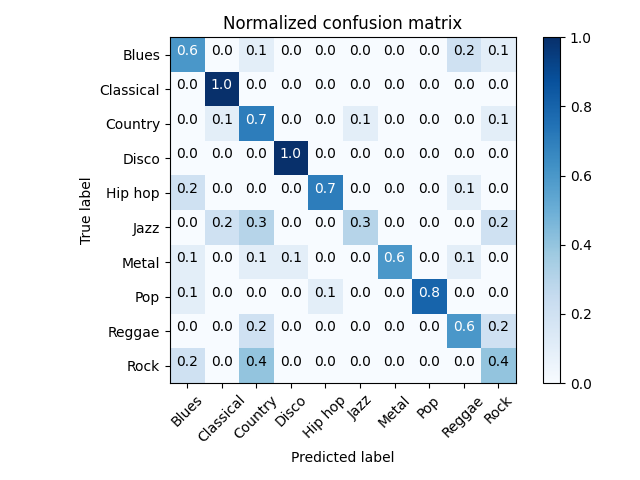
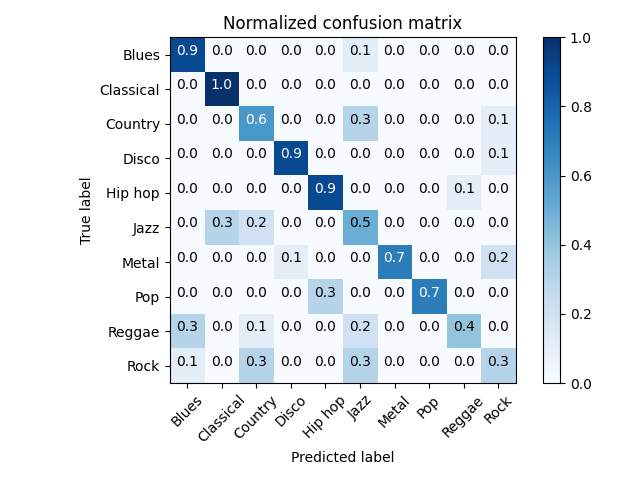
Changes in code

diff --git a/separable_cnn.py b/separable_cnn.py
@@ -14,44 +14,7 @@ import load_data
 import matplotlib
 matplotlib.use("Agg")
 from matplotlib import pyplot as plt
-import itertools
-
-###################################################################################################
-
-
-def plot_confusion_matrix(cm, classes,
-                          normalize=False,
-                          title='Confusion matrix',
-                          cmap=plt.cm.Blues):
-    """
-    This function prints and plots the confusion matrix.
-    Normalization can be applied by setting `normalize=True`.
-    """
-    if normalize:
-        cm = cm.astype('float') / cm.sum(axis=1)[:, np.newaxis]
-        print("Normalized confusion matrix")
-    else:
-        print('Confusion matrix, without normalization')
-
-    print(cm)
-
-    plt.imshow(cm, interpolation='nearest', cmap=cmap)
-    plt.title(title)
-    plt.colorbar()
-    tick_marks = np.arange(len(classes))
-    plt.xticks(tick_marks, classes, rotation=45)
-    plt.yticks(tick_marks, classes)
-
-    fmt = '.1f' if normalize else 'd'
-    thresh = cm.max() / 2.
-    for i, j in itertools.product(range(cm.shape[0]), range(cm.shape[1])):
-        plt.text(j, i, format(cm[i, j], fmt),
-                 horizontalalignment="center",
-                 color="white" if cm[i, j] > thresh else "black")
-
-    plt.ylabel('True label')
-    plt.xlabel('Predicted label')
-    plt.tight_layout()
+from plot_conf_matrix import plot_confusion_matrix
 
 
 # Models to be passed to Music_Genre_CNN
@@ -65,7 +28,7 @@ def metric(y_true, y_pred):
     return K.mean(K.equal(K.argmax(y_true, axis=1), K.argmax(y_pred, axis=1)))
 
 
-def cnn(num_genres=10, input_shape=(64, 173, 1)):
+def dsnn(num_genres=10, input_shape=(64, 173, 1), ):
     model = Sequential()
     model.add(SeparableConv2D(64,
                      kernel_size=(4, 4),
@@ -77,7 +40,7 @@ def cnn(num_genres=10, input_shape=(64, 173, 1)):
                      (3, 5),
                      activation='relu',
                      kernel_regularizer=regularizers.l2(0.04)))
-    model.add(MaxPooling2D(pool_size=(2, 2)))
+    model.add(MaxPooling2D(pool_size=(2, 4)))
     model.add(Dropout(0.2))
     model.add(SeparableConv2D(64,
                      (2, 2),
@@ -90,15 +53,11 @@ def cnn(num_genres=10, input_shape=(64, 173, 1)):
     model.add(Dropout(0.5))
     model.add(Dense(32, activation='relu', kernel_regularizer=regularizers.l2(0.04)))
     model.add(Dense(num_genres, activation='softmax'))
-    model.compile(loss=keras.losses.categorical_crossentropy,
+    model.compile(loss='categorical_crossentropy',
                   optimizer=tf.keras.optimizers.Adam(lr=0.001, beta_1=0.9, beta_2=0.999, epsilon=1e-08, decay=0.0),
                   metrics=[metric])
-    # model.summary()
-    return(model)
-
-###################################################################################################
-
-# Main network thingy to train
+    model.summary()
+    return model
 
 
 class model(object):
@@ -108,14 +67,17 @@ class model(object):
 
     def train_model(self, train_x, train_y,
                 val_x=None, val_y=None,
-                small_batch_size=100, max_iteration=300, print_interval=1,
+                small_batch_size=50,
+                max_iteration=300, print_interval=1,
                 test_x=None, test_y=None):
-
+        val_accuracy = .70
         m = len(train_x)
+        history = self.model.fit(train_x, train_y, batch_size=16,
+                                 validation_data=(test_x, test_y),
+                                 epochs=15)
 
         for it in range(max_iteration):
 
-            # split training data into even batches
             batch_idx = np.random.permutation(m)
             train_x = train_x[batch_idx]
             train_y = train_y[batch_idx]
@@ -126,7 +88,7 @@ class model(object):
 
                 x_batch = train_x[batch*small_batch_size: (batch+1)*small_batch_size]
                 y_batch = train_y[batch*small_batch_size: (batch+1)*small_batch_size]
-                # print("Starting batch\t", batch, "\t Epoch:\t", it)
+                print("Batch\t", batch, "\t Epoch:\t", it)
                 self.model.train_on_batch(x_batch, y_batch)
 
             if it % print_interval == 0:
@@ -137,8 +99,26 @@ class model(object):
                       (training_accuracy[1], validation_accuracy[1], testing_accuracy[1]))
                 print("\nTraining loss: %f    \t Validation loss: %f    \t Testing Loss: %f \n" %
                       (training_accuracy[0], validation_accuracy[0], testing_accuracy[0]))
+                if it == 15:
+                    train_loss = history.history['loss']
+                    test_loss = history.history['val_loss']
 
-            if (validation_accuracy[1] > .70):
+                    plt.figure(figsize=(12, 8))
+
+                    plt.plot(train_loss, label='Training Loss', color='blue')
+                    plt.plot(test_loss, label='Testing Loss', color='red')
+
+                    plt.title('Training and Testing Loss by Epoch', fontsize=25)
+                    plt.xlabel('Epoch', fontsize=18)
+                    plt.ylabel('Categorical Crossentropy', fontsize=18)
+                    plt.xticks(range(1, 16), range(1, 16))
+
+                    plt.legend(fontsize=18)
+                    plt.savefig('ProgressTable')
+
+
+            if (validation_accuracy[1] > val_accuracy):
+                val_accuracy = validation_accuracy[1]
                 print("Saving confusion data...")
                 model_name = "model" + str(100*validation_accuracy[1]) + str(100*testing_accuracy[1]) + ".h5"
                 self.model.save(model_name)
@@ -150,6 +130,7 @@ class model(object):
                 plot_confusion_matrix(cnf_matrix, classes=song_labels, normalize=True, title='Normalized confusion matrix')
                 print(precision_recall_fscore_support(np.argmax(test_y, axis=1), predicted, average='macro'))
                 plt.savefig(str(batch))
+
 
 ###################################################################################################
 
@@ -187,7 +168,7 @@ def main():
     y_te = np_utils.to_categorical(y_te)
     y_cv = np_utils.to_categorical(y_cv)
 
-    ann = model(cnn)
+    ann = model(dsnn)
     ann.train_model(x_tr, y_tr, val_x=x_cv, val_y=y_cv, test_x=x_te, test_y=y_te)
 
 

diff --git a/cnn.py b/cnn.py
@@ -88,7 +88,7 @@ def cnn(num_genres=10, input_shape=(64, 173, 1)):
     model.compile(loss=keras.losses.categorical_crossentropy,
                   optimizer=tf.keras.optimizers.Adam(lr=0.001, beta_1=0.9, beta_2=0.999, epsilon=1e-08, decay=0.0),
                   metrics=[metric])
-    # model.summary()
+    model.summary()
     return(model)
 
 ###################################################################################################
@@ -107,6 +107,9 @@ class model(object):
                 test_x=None, test_y=None):
 
         m = len(train_x)
+        history = self.model.fit(train_x, train_y, batch_size=16,
+                                 validation_data=(test_x, test_y),
+                                 epochs=15)
 
         for it in range(max_iteration):
 
@@ -132,6 +135,28 @@ class model(object):
                       (training_accuracy[1], validation_accuracy[1], testing_accuracy[1]))
                 print("\nTraining loss: %f    \t Validation loss: %f    \t Testing Loss: %f \n" %
                       (training_accuracy[0], validation_accuracy[0], testing_accuracy[0]))
+
+                if it == 15:
+                    train_loss = history.history['loss']
+                    test_loss = history.history['val_loss']
+
+                    # Set figure size.
+                    plt.figure(figsize=(12, 8))
+
+                    # Generate line plot of training, testing loss over epochs.
+                    plt.plot(train_loss, label='Training Loss', color='blue')
+                    plt.plot(test_loss, label='Testing Loss', color='red')
+
+                    # Set title
+                    plt.title('Training and Testing Loss by Epoch', fontsize=25)
+                    plt.xlabel('Epoch', fontsize=18)
+                    plt.ylabel('Categorical Crossentropy', fontsize=18)
+                    plt.xticks(range(1, 16), range(1, 16))
+
+                    plt.legend(fontsize=18)
+                    plt.show()
+                    plt.savefig('ProgressTableCnn')
+
 
             if (validation_accuracy[1] > .81):
                 print("Saving confusion data...")

diff --git a/plot_conf_matrix.py b/plot_conf_matrix.py
@@ -1,0 +1,38 @@
+import numpy as np
+from matplotlib import pyplot as plt
+import itertools
+
+
+def plot_confusion_matrix(cm, classes,
+                          normalize=False,
+                          title='Confusion matrix',
+                          cmap=plt.cm.Blues):
+    """
+    This function prints and plots the confusion matrix.
+    Normalization can be applied by setting `normalize=True`.
+    """
+    if normalize:
+        cm = cm.astype('float') / cm.sum(axis=1)[:, np.newaxis]
+        print("Normalized confusion matrix")
+    else:
+        print('Confusion matrix, without normalization')
+
+    print(cm)
+
+    plt.imshow(cm, interpolation='nearest', cmap=cmap)
+    plt.title(title)
+    plt.colorbar()
+    tick_marks = np.arange(len(classes))
+    plt.xticks(tick_marks, classes, rotation=45)
+    plt.yticks(tick_marks, classes)
+
+    fmt = '.1f' if normalize else 'd'
+    thresh = cm.max() / 2.
+    for i, j in itertools.product(range(cm.shape[0]), range(cm.shape[1])):
+        plt.text(j, i, format(cm[i, j], fmt),
+                 horizontalalignment="center",
+                 color="white" if cm[i, j] > thresh else "black")
+
+    plt.ylabel('True label')
+    plt.xlabel('Predicted label')
+    plt.tight_layout()
